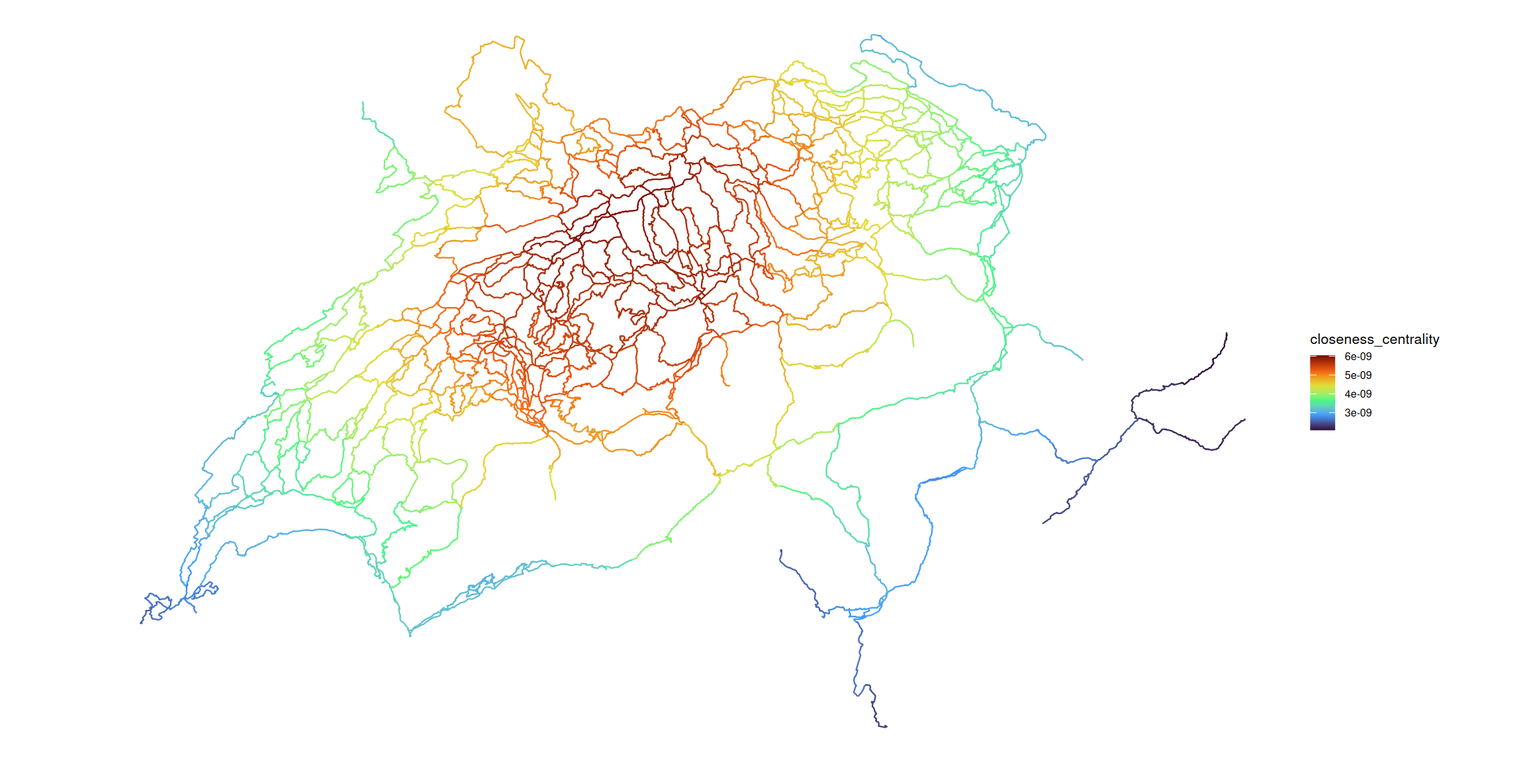
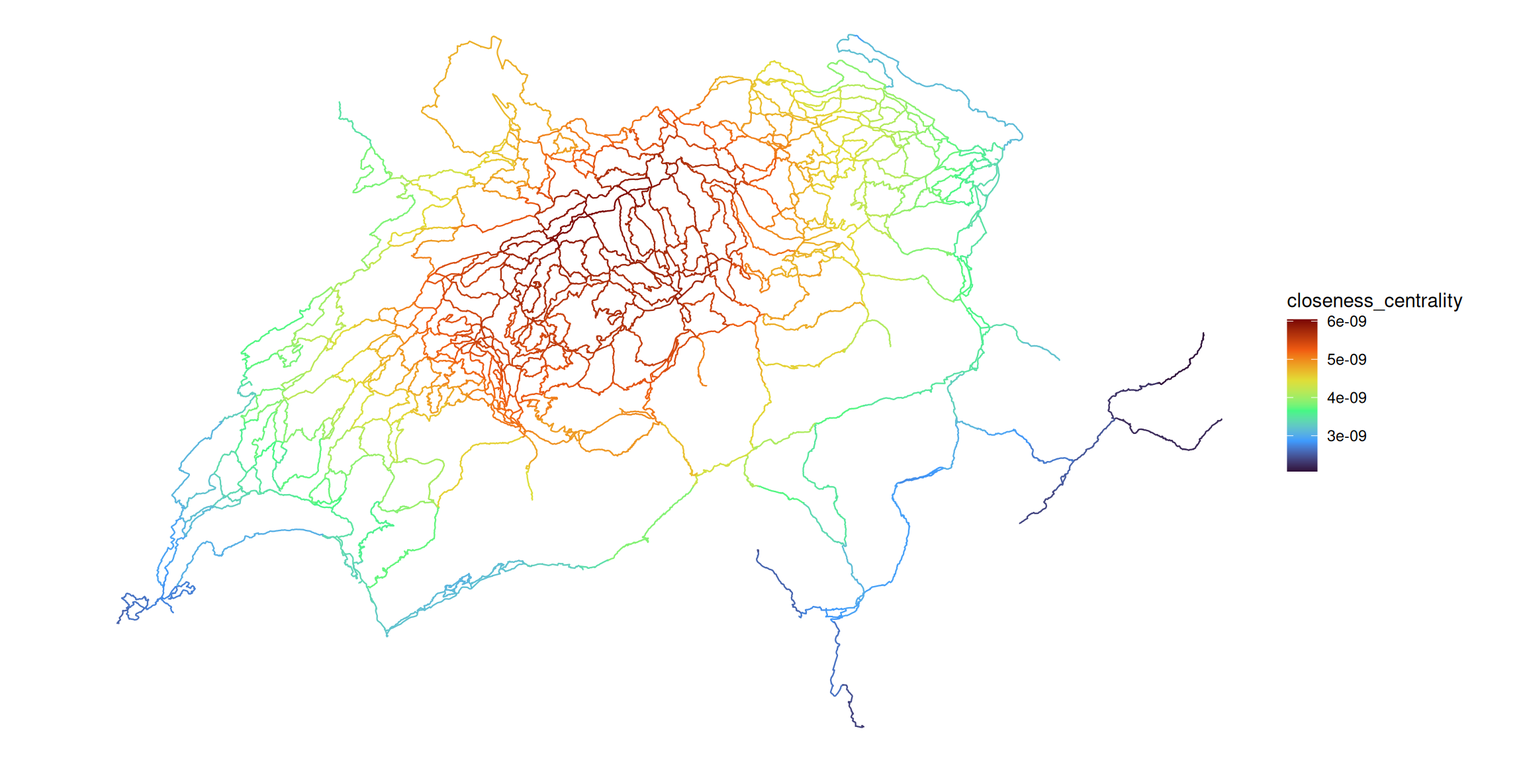
Built site for gh-pages

diff --git a/index.html b/index.html
@@ -245,36 +245,18 @@ Projected CRS: CH1903+ / LV95</code></pre>
 <span id="cb9-2"><a href="#cb9-2" aria-hidden="true" tabindex="-1"></a>  <span class="fu">geom_sf</span>(<span class="fu">aes</span>(<span class="at">color =</span> betweenness_centrality), <span class="at">size =</span> <span class="fl">0.4</span>) <span class="sc">+</span> </span>
 <span id="cb9-3"><a href="#cb9-3" aria-hidden="true" tabindex="-1"></a>  <span class="fu">scale_color_viridis_c</span>(<span class="at">option =</span> <span class="st">"turbo"</span>) <span class="sc">+</span> </span>
 <span id="cb9-4"><a href="#cb9-4" aria-hidden="true" tabindex="-1"></a>  <span class="fu">theme_void</span>() <span class="sc">+</span> </span>
-<span id="cb9-5"><a href="#cb9-5" aria-hidden="true" tabindex="-1"></a>    <span class="fu">theme</span>(</span>
-<span id="cb9-6"><a href="#cb9-6" aria-hidden="true" tabindex="-1"></a>  <span class="at">legend.title =</span> <span class="fu">element_text</span>(<span class="at">size =</span> <span class="dv">8</span>),</span>
-<span id="cb9-7"><a href="#cb9-7" aria-hidden="true" tabindex="-1"></a>  <span class="at">legend.text  =</span> <span class="fu">element_text</span>(<span class="at">size =</span> <span class="dv">6</span>),</span>
-<span id="cb9-8"><a href="#cb9-8" aria-hidden="true" tabindex="-1"></a>  <span class="at">legend.key.height =</span> <span class="fu">unit</span>(<span class="fl">0.3</span>, <span class="st">"cm"</span>),</span>
-<span id="cb9-9"><a href="#cb9-9" aria-hidden="true" tabindex="-1"></a>  <span class="at">legend.key.width  =</span> <span class="fu">unit</span>(<span class="fl">0.5</span>, <span class="st">"cm"</span>)</span>
-<span id="cb9-10"><a href="#cb9-10" aria-hidden="true" tabindex="-1"></a>  ) <span class="sc">+</span> </span>
-<span id="cb9-11"><a href="#cb9-11" aria-hidden="true" tabindex="-1"></a>  <span class="fu">theme</span>(<span class="at">plot.margin =</span> <span class="fu">margin</span>(<span class="dv">0</span>, <span class="dv">0</span>, <span class="dv">0</span>, <span class="dv">0</span>))</span>
-<span id="cb9-12"><a href="#cb9-12" aria-hidden="true" tabindex="-1"></a><span class="fu">ggplot</span>(edges_sf) <span class="sc">+</span> </span>
-<span id="cb9-13"><a href="#cb9-13" aria-hidden="true" tabindex="-1"></a>  <span class="fu">geom_sf</span>(<span class="fu">aes</span>(<span class="at">color =</span> closeness_centrality), <span class="at">size =</span> <span class="fl">0.4</span>) <span class="sc">+</span> </span>
-<span id="cb9-14"><a href="#cb9-14" aria-hidden="true" tabindex="-1"></a>  <span class="fu">scale_color_viridis_c</span>(<span class="at">option =</span> <span class="st">"turbo"</span>) <span class="sc">+</span> </span>
-<span id="cb9-15"><a href="#cb9-15" aria-hidden="true" tabindex="-1"></a>  <span class="fu">theme_void</span>() <span class="sc">+</span> </span>
-<span id="cb9-16"><a href="#cb9-16" aria-hidden="true" tabindex="-1"></a>    <span class="fu">theme</span>(</span>
-<span id="cb9-17"><a href="#cb9-17" aria-hidden="true" tabindex="-1"></a>  <span class="at">legend.title =</span> <span class="fu">element_text</span>(<span class="at">size =</span> <span class="dv">8</span>),</span>
-<span id="cb9-18"><a href="#cb9-18" aria-hidden="true" tabindex="-1"></a>  <span class="at">legend.text  =</span> <span class="fu">element_text</span>(<span class="at">size =</span> <span class="dv">6</span>),</span>
-<span id="cb9-19"><a href="#cb9-19" aria-hidden="true" tabindex="-1"></a>  <span class="at">legend.key.height =</span> <span class="fu">unit</span>(<span class="fl">0.3</span>, <span class="st">"cm"</span>),</span>
-<span id="cb9-20"><a href="#cb9-20" aria-hidden="true" tabindex="-1"></a>  <span class="at">legend.key.width  =</span> <span class="fu">unit</span>(<span class="fl">0.5</span>, <span class="st">"cm"</span>)</span>
-<span id="cb9-21"><a href="#cb9-21" aria-hidden="true" tabindex="-1"></a>  ) <span class="sc">+</span> </span>
-<span id="cb9-22"><a href="#cb9-22" aria-hidden="true" tabindex="-1"></a>  <span class="fu">theme</span>(<span class="at">plot.margin =</span> <span class="fu">margin</span>(<span class="dv">0</span>, <span class="dv">0</span>, <span class="dv">0</span>, <span class="dv">0</span>))</span>
-<span id="cb9-23"><a href="#cb9-23" aria-hidden="true" tabindex="-1"></a><span class="fu">ggplot</span>(edges_sf) <span class="sc">+</span> </span>
-<span id="cb9-24"><a href="#cb9-24" aria-hidden="true" tabindex="-1"></a>  <span class="fu">geom_sf</span>(<span class="fu">aes</span>(<span class="at">color =</span> degree_centrality), <span class="at">size =</span> <span class="fl">0.4</span>) <span class="sc">+</span></span>
-<span id="cb9-25"><a href="#cb9-25" aria-hidden="true" tabindex="-1"></a>  <span class="fu">scale_color_viridis_c</span>(<span class="at">option =</span> <span class="st">"turbo"</span>) <span class="sc">+</span> </span>
-<span id="cb9-26"><a href="#cb9-26" aria-hidden="true" tabindex="-1"></a>  <span class="fu">theme_void</span>() <span class="sc">+</span></span>
-<span id="cb9-27"><a href="#cb9-27" aria-hidden="true" tabindex="-1"></a>  <span class="fu">theme</span>(</span>
-<span id="cb9-28"><a href="#cb9-28" aria-hidden="true" tabindex="-1"></a>  <span class="at">legend.title =</span> <span class="fu">element_text</span>(<span class="at">size =</span> <span class="dv">8</span>),</span>
-<span id="cb9-29"><a href="#cb9-29" aria-hidden="true" tabindex="-1"></a>  <span class="at">legend.text  =</span> <span class="fu">element_text</span>(<span class="at">size =</span> <span class="dv">6</span>),</span>
-<span id="cb9-30"><a href="#cb9-30" aria-hidden="true" tabindex="-1"></a>  <span class="at">legend.key.height =</span> <span class="fu">unit</span>(<span class="fl">0.3</span>, <span class="st">"cm"</span>),</span>
-<span id="cb9-31"><a href="#cb9-31" aria-hidden="true" tabindex="-1"></a>  <span class="at">legend.key.width  =</span> <span class="fu">unit</span>(<span class="fl">0.5</span>, <span class="st">"cm"</span>)</span>
-<span id="cb9-32"><a href="#cb9-32" aria-hidden="true" tabindex="-1"></a>  ) <span class="sc">+</span> </span>
-<span id="cb9-33"><a href="#cb9-33" aria-hidden="true" tabindex="-1"></a>  <span class="fu">theme</span>(<span class="at">plot.margin =</span> <span class="fu">margin</span>(<span class="dv">0</span>, <span class="dv">0</span>, <span class="dv">0</span>, <span class="dv">0</span>))</span></code></pre></div><button title="Copy to Clipboard" class="code-copy-button"><i class="bi"></i></button></div>
-<div class="cell quarto-layout-panel" data-layout-ncol="1" data-fig-nrow="3">
+<span id="cb9-5"><a href="#cb9-5" aria-hidden="true" tabindex="-1"></a>  <span class="fu">theme</span>(<span class="at">plot.margin =</span> <span class="fu">margin</span>(<span class="dv">0</span>, <span class="dv">0</span>, <span class="dv">0</span>, <span class="dv">0</span>))</span>
+<span id="cb9-6"><a href="#cb9-6" aria-hidden="true" tabindex="-1"></a><span class="fu">ggplot</span>(edges_sf) <span class="sc">+</span> </span>
+<span id="cb9-7"><a href="#cb9-7" aria-hidden="true" tabindex="-1"></a>  <span class="fu">geom_sf</span>(<span class="fu">aes</span>(<span class="at">color =</span> closeness_centrality), <span class="at">size =</span> <span class="fl">0.4</span>) <span class="sc">+</span> </span>
+<span id="cb9-8"><a href="#cb9-8" aria-hidden="true" tabindex="-1"></a>  <span class="fu">scale_color_viridis_c</span>(<span class="at">option =</span> <span class="st">"turbo"</span>) <span class="sc">+</span> </span>
+<span id="cb9-9"><a href="#cb9-9" aria-hidden="true" tabindex="-1"></a>  <span class="fu">theme_void</span>() <span class="sc">+</span> </span>
+<span id="cb9-10"><a href="#cb9-10" aria-hidden="true" tabindex="-1"></a>  <span class="fu">theme</span>(<span class="at">plot.margin =</span> <span class="fu">margin</span>(<span class="dv">0</span>, <span class="dv">0</span>, <span class="dv">0</span>, <span class="dv">0</span>))</span>
+<span id="cb9-11"><a href="#cb9-11" aria-hidden="true" tabindex="-1"></a><span class="fu">ggplot</span>(edges_sf) <span class="sc">+</span> </span>
+<span id="cb9-12"><a href="#cb9-12" aria-hidden="true" tabindex="-1"></a>  <span class="fu">geom_sf</span>(<span class="fu">aes</span>(<span class="at">color =</span> degree_centrality), <span class="at">size =</span> <span class="fl">0.4</span>) <span class="sc">+</span></span>
+<span id="cb9-13"><a href="#cb9-13" aria-hidden="true" tabindex="-1"></a>  <span class="fu">scale_color_viridis_c</span>(<span class="at">option =</span> <span class="st">"turbo"</span>) <span class="sc">+</span> </span>
+<span id="cb9-14"><a href="#cb9-14" aria-hidden="true" tabindex="-1"></a>  <span class="fu">theme_void</span>() <span class="sc">+</span></span>
+<span id="cb9-15"><a href="#cb9-15" aria-hidden="true" tabindex="-1"></a>  <span class="fu">theme</span>(<span class="at">plot.margin =</span> <span class="fu">margin</span>(<span class="dv">0</span>, <span class="dv">0</span>, <span class="dv">0</span>, <span class="dv">0</span>))</span></code></pre></div><button title="Copy to Clipboard" class="code-copy-button"><i class="bi"></i></button></div>
+<div class="cell quarto-layout-panel" data-fig-nrow="3" data-layout-ncol="1">
 <div class="quarto-layout-row">
 <div class="quarto-layout-cell" style="flex-basis: 100.0%;justify-content: center;">
 <p><img src="index_files/figure-html/plot%20raw-1.png" class="img-fluid" width="1152"></p>
@@ -317,41 +299,35 @@ Projected CRS: CH1903+ / LV95</code></pre>
 <span id="cb12-2"><a href="#cb12-2" aria-hidden="true" tabindex="-1"></a>edges_sf<span class="sc">$</span>clo_z <span class="ot">&lt;-</span> <span class="fu">scale</span>(edges_sf<span class="sc">$</span>closeness_centrality)</span>
 <span id="cb12-3"><a href="#cb12-3" aria-hidden="true" tabindex="-1"></a>edges_sf<span class="sc">$</span>deg_z <span class="ot">&lt;-</span> <span class="fu">scale</span>(edges_sf<span class="sc">$</span>degree_centrality)</span></code></pre></div><button title="Copy to Clipboard" class="code-copy-button"><i class="bi"></i></button></div>
 </div>
-<div class="cell" data-fig-nrow="3">
 <div class="code-copy-outer-scaffold"><div class="sourceCode cell-code" id="cb13"><pre class="sourceCode r code-with-copy"><code class="sourceCode r"><span id="cb13-1"><a href="#cb13-1" aria-hidden="true" tabindex="-1"></a><span class="fu">ggplot</span>(edges_sf) <span class="sc">+</span> </span>
 <span id="cb13-2"><a href="#cb13-2" aria-hidden="true" tabindex="-1"></a>  <span class="fu">geom_sf</span>(<span class="fu">aes</span>(<span class="at">color =</span> btw_z), <span class="at">size =</span> <span class="fl">0.4</span>) <span class="sc">+</span> </span>
 <span id="cb13-3"><a href="#cb13-3" aria-hidden="true" tabindex="-1"></a>  <span class="fu">scale_color_viridis_c</span>(<span class="at">option =</span> <span class="st">"turbo"</span>) <span class="sc">+</span> </span>
 <span id="cb13-4"><a href="#cb13-4" aria-hidden="true" tabindex="-1"></a>  <span class="fu">theme_void</span>()  <span class="sc">+</span> </span>
-<span id="cb13-5"><a href="#cb13-5" aria-hidden="true" tabindex="-1"></a>  <span class="fu">theme</span>(<span class="at">plot.margin =</span> <span class="fu">margin</span>(<span class="dv">0</span>, <span class="dv">0</span>, <span class="dv">0</span>, <span class="dv">0</span>))</span></code></pre></div><button title="Copy to Clipboard" class="code-copy-button"><i class="bi"></i></button></div>
-<div class="cell-output-display">
-<div>
-<figure class="figure">
-<p><img src="index_files/figure-html/plot%20z-scores-1.png" class="img-fluid figure-img" width="1152"></p>
-</figure>
+<span id="cb13-5"><a href="#cb13-5" aria-hidden="true" tabindex="-1"></a>  <span class="fu">theme</span>(<span class="at">plot.margin =</span> <span class="fu">margin</span>(<span class="dv">0</span>, <span class="dv">0</span>, <span class="dv">0</span>, <span class="dv">0</span>))</span>
+<span id="cb13-6"><a href="#cb13-6" aria-hidden="true" tabindex="-1"></a><span class="fu">ggplot</span>(edges_sf) <span class="sc">+</span> </span>
+<span id="cb13-7"><a href="#cb13-7" aria-hidden="true" tabindex="-1"></a>  <span class="fu">geom_sf</span>(<span class="fu">aes</span>(<span class="at">color =</span> clo_z), <span class="at">size =</span> <span class="fl">0.4</span>) <span class="sc">+</span> </span>
+<span id="cb13-8"><a href="#cb13-8" aria-hidden="true" tabindex="-1"></a>  <span class="fu">scale_color_viridis_c</span>(<span class="at">option =</span> <span class="st">"turbo"</span>) <span class="sc">+</span> </span>
+<span id="cb13-9"><a href="#cb13-9" aria-hidden="true" tabindex="-1"></a>  <span class="fu">theme_void</span>() <span class="sc">+</span> </span>
+<span id="cb13-10"><a href="#cb13-10" aria-hidden="true" tabindex="-1"></a>  <span class="fu">theme</span>(<span class="at">plot.margin =</span> <span class="fu">margin</span>(<span class="dv">0</span>, <span class="dv">0</span>, <span class="dv">0</span>, <span class="dv">0</span>))</span>
+<span id="cb13-11"><a href="#cb13-11" aria-hidden="true" tabindex="-1"></a><span class="fu">ggplot</span>(edges_sf) <span class="sc">+</span> </span>
+<span id="cb13-12"><a href="#cb13-12" aria-hidden="true" tabindex="-1"></a>  <span class="fu">geom_sf</span>(<span class="fu">aes</span>(<span class="at">color =</span> deg_z), <span class="at">size =</span> <span class="fl">0.4</span>) <span class="sc">+</span></span>
+<span id="cb13-13"><a href="#cb13-13" aria-hidden="true" tabindex="-1"></a>  <span class="fu">scale_color_viridis_c</span>(<span class="at">option =</span> <span class="st">"turbo"</span>) <span class="sc">+</span> </span>
+<span id="cb13-14"><a href="#cb13-14" aria-hidden="true" tabindex="-1"></a>  <span class="fu">theme_void</span>() <span class="sc">+</span> </span>
+<span id="cb13-15"><a href="#cb13-15" aria-hidden="true" tabindex="-1"></a>  <span class="fu">theme</span>(<span class="at">plot.margin =</span> <span class="fu">margin</span>(<span class="dv">0</span>, <span class="dv">0</span>, <span class="dv">0</span>, <span class="dv">0</span>))</span></code></pre></div><button title="Copy to Clipboard" class="code-copy-button"><i class="bi"></i></button></div>
+<div class="cell quarto-layout-panel" data-fig-nrow="3" data-layout-ncol="1">
+<div class="quarto-layout-row">
+<div class="quarto-layout-cell" style="flex-basis: 100.0%;justify-content: center;">
+<p><img src="index_files/figure-html/plot%20z-scores-1.png" class="img-fluid" width="1152"></p>
 </div>
 </div>
-<div class="code-copy-outer-scaffold"><div class="sourceCode cell-code" id="cb14"><pre class="sourceCode r code-with-copy"><code class="sourceCode r"><span id="cb14-1"><a href="#cb14-1" aria-hidden="true" tabindex="-1"></a><span class="fu">ggplot</span>(edges_sf) <span class="sc">+</span> </span>
-<span id="cb14-2"><a href="#cb14-2" aria-hidden="true" tabindex="-1"></a>  <span class="fu">geom_sf</span>(<span class="fu">aes</span>(<span class="at">color =</span> clo_z), <span class="at">size =</span> <span class="fl">0.4</span>) <span class="sc">+</span> </span>
-<span id="cb14-3"><a href="#cb14-3" aria-hidden="true" tabindex="-1"></a>  <span class="fu">scale_color_viridis_c</span>(<span class="at">option =</span> <span class="st">"turbo"</span>) <span class="sc">+</span> </span>
-<span id="cb14-4"><a href="#cb14-4" aria-hidden="true" tabindex="-1"></a>  <span class="fu">theme_void</span>() <span class="sc">+</span> </span>
-<span id="cb14-5"><a href="#cb14-5" aria-hidden="true" tabindex="-1"></a>  <span class="fu">theme</span>(<span class="at">plot.margin =</span> <span class="fu">margin</span>(<span class="dv">0</span>, <span class="dv">0</span>, <span class="dv">0</span>, <span class="dv">0</span>))</span></code></pre></div><button title="Copy to Clipboard" class="code-copy-button"><i class="bi"></i></button></div>
-<div class="cell-output-display">
-<div>
-<figure class="figure">
-<p><img src="index_files/figure-html/plot%20z-scores-2.png" class="img-fluid figure-img" width="1152"></p>
-</figure>
+<div class="quarto-layout-row">
+<div class="quarto-layout-cell" style="flex-basis: 100.0%;justify-content: center;">
+<p><img src="index_files/figure-html/plot%20z-scores-2.png" class="img-fluid" width="1152"></p>
 </div>
 </div>
-<div class="code-copy-outer-scaffold"><div class="sourceCode cell-code" id="cb15"><pre class="sourceCode r code-with-copy"><code class="sourceCode r"><span id="cb15-1"><a href="#cb15-1" aria-hidden="true" tabindex="-1"></a><span class="fu">ggplot</span>(edges_sf) <span class="sc">+</span> </span>
-<span id="cb15-2"><a href="#cb15-2" aria-hidden="true" tabindex="-1"></a>  <span class="fu">geom_sf</span>(<span class="fu">aes</span>(<span class="at">color =</span> deg_z), <span class="at">size =</span> <span class="fl">0.4</span>) <span class="sc">+</span></span>
-<span id="cb15-3"><a href="#cb15-3" aria-hidden="true" tabindex="-1"></a>  <span class="fu">scale_color_viridis_c</span>(<span class="at">option =</span> <span class="st">"turbo"</span>) <span class="sc">+</span> </span>
-<span id="cb15-4"><a href="#cb15-4" aria-hidden="true" tabindex="-1"></a>  <span class="fu">theme_void</span>() <span class="sc">+</span> </span>
-<span id="cb15-5"><a href="#cb15-5" aria-hidden="true" tabindex="-1"></a>  <span class="fu">theme</span>(<span class="at">plot.margin =</span> <span class="fu">margin</span>(<span class="dv">0</span>, <span class="dv">0</span>, <span class="dv">0</span>, <span class="dv">0</span>))</span></code></pre></div><button title="Copy to Clipboard" class="code-copy-button"><i class="bi"></i></button></div>
-<div class="cell-output-display">
-<div>
-<figure class="figure">
-<p><img src="index_files/figure-html/plot%20z-scores-3.png" class="img-fluid figure-img" width="1152"></p>
-</figure>
+<div class="quarto-layout-row">
+<div class="quarto-layout-cell" style="flex-basis: 100.0%;justify-content: center;">
+<p><img src="index_files/figure-html/plot%20z-scores-3.png" class="img-fluid" width="1152"></p>
 </div>
 </div>
 </div>
@@ -383,10 +359,10 @@ Projected CRS: CH1903+ / LV95</code></pre>
 <h3 class="anchored" data-anchor-id="prepare-the-data">Prepare the data</h3>
 <p>In this first step, I load the location data from a GeoPackage file into R using st_read(). This gives me a spatial dataset of all relevant places that I will use as start and end points for the routing analysis.</p>
 <div class="cell">
-<div class="code-copy-outer-scaffold"><div class="sourceCode cell-code" id="cb16"><pre class="sourceCode r code-with-copy"><code class="sourceCode r"><span id="cb16-1"><a href="#cb16-1" aria-hidden="true" tabindex="-1"></a><span class="co"># Construct the file path</span></span>
-<span id="cb16-2"><a href="#cb16-2" aria-hidden="true" tabindex="-1"></a>gpkg_path_locs <span class="ot">&lt;-</span> <span class="fu">file.path</span>(<span class="fu">Sys.getenv</span>(<span class="st">"GEODATA"</span>), <span class="st">"locations.gpkg"</span>)</span>
-<span id="cb16-3"><a href="#cb16-3" aria-hidden="true" tabindex="-1"></a></span>
-<span id="cb16-4"><a href="#cb16-4" aria-hidden="true" tabindex="-1"></a>locations <span class="ot">&lt;-</span> <span class="fu">st_read</span>(gpkg_path_locs)</span></code></pre></div><button title="Copy to Clipboard" class="code-copy-button"><i class="bi"></i></button></div>
+<div class="code-copy-outer-scaffold"><div class="sourceCode cell-code" id="cb14"><pre class="sourceCode r code-with-copy"><code class="sourceCode r"><span id="cb14-1"><a href="#cb14-1" aria-hidden="true" tabindex="-1"></a><span class="co"># Construct the file path</span></span>
+<span id="cb14-2"><a href="#cb14-2" aria-hidden="true" tabindex="-1"></a>gpkg_path_locs <span class="ot">&lt;-</span> <span class="fu">file.path</span>(<span class="fu">Sys.getenv</span>(<span class="st">"GEODATA"</span>), <span class="st">"locations.gpkg"</span>)</span>
+<span id="cb14-3"><a href="#cb14-3" aria-hidden="true" tabindex="-1"></a></span>
+<span id="cb14-4"><a href="#cb14-4" aria-hidden="true" tabindex="-1"></a>locations <span class="ot">&lt;-</span> <span class="fu">st_read</span>(gpkg_path_locs)</span></code></pre></div><button title="Copy to Clipboard" class="code-copy-button"><i class="bi"></i></button></div>
 <div class="cell-output cell-output-stdout">
 <pre><code>Reading layer `locations' from data source 
   `/home/rhoumyas/data/geodata/locations.gpkg' using driver `GPKG'
@@ -402,87 +378,87 @@ Projected CRS: CH1903+ / LV95</code></pre>
 <h3 class="anchored" data-anchor-id="defining-origin-and-destinations">Defining origin and destinations</h3>
 <p>From this set, I define one specific location (Chiasso) as the origin, and all other locations as destinations.</p>
 <div class="cell">
-<div class="code-copy-outer-scaffold"><div class="sourceCode cell-code" id="cb18"><pre class="sourceCode r code-with-copy"><code class="sourceCode r"><span id="cb18-1"><a href="#cb18-1" aria-hidden="true" tabindex="-1"></a>origin <span class="ot">&lt;-</span> locations <span class="sc">%&gt;%</span></span>
-<span id="cb18-2"><a href="#cb18-2" aria-hidden="true" tabindex="-1"></a>  <span class="fu">filter</span>(Ortschaft <span class="sc">==</span> <span class="st">"Chiasso"</span>)</span>
-<span id="cb18-3"><a href="#cb18-3" aria-hidden="true" tabindex="-1"></a></span>
-<span id="cb18-4"><a href="#cb18-4" aria-hidden="true" tabindex="-1"></a>destination <span class="ot">&lt;-</span> locations <span class="sc">%&gt;%</span></span>
-<span id="cb18-5"><a href="#cb18-5" aria-hidden="true" tabindex="-1"></a>  <span class="fu">filter</span>(Ortschaft <span class="sc">!=</span> <span class="st">"Chiasso"</span>)</span></code></pre></div><button title="Copy to Clipboard" class="code-copy-button"><i class="bi"></i></button></div>
+<div class="code-copy-outer-scaffold"><div class="sourceCode cell-code" id="cb16"><pre class="sourceCode r code-with-copy"><code class="sourceCode r"><span id="cb16-1"><a href="#cb16-1" aria-hidden="true" tabindex="-1"></a>origin <span class="ot">&lt;-</span> locations <span class="sc">%&gt;%</span></span>
+<span id="cb16-2"><a href="#cb16-2" aria-hidden="true" tabindex="-1"></a>  <span class="fu">filter</span>(Ortschaft <span class="sc">==</span> <span class="st">"Chiasso"</span>)</span>
+<span id="cb16-3"><a href="#cb16-3" aria-hidden="true" tabindex="-1"></a></span>
+<span id="cb16-4"><a href="#cb16-4" aria-hidden="true" tabindex="-1"></a>destination <span class="ot">&lt;-</span> locations <span class="sc">%&gt;%</span></span>
+<span id="cb16-5"><a href="#cb16-5" aria-hidden="true" tabindex="-1"></a>  <span class="fu">filter</span>(Ortschaft <span class="sc">!=</span> <span class="st">"Chiasso"</span>)</span></code></pre></div><button title="Copy to Clipboard" class="code-copy-button"><i class="bi"></i></button></div>
 </div>
 </section>
 <section id="computing-the-shortest-paths" class="level3">
 <h3 class="anchored" data-anchor-id="computing-the-shortest-paths">Computing the shortest paths</h3>
 <p>Here, I calculate the shortest paths from the origin (Chiasso) to all destination points using <code>st_network_paths()</code>. I use the network structure created earlier (Task 1) and define the edge length as the weight, so the algorithm finds the shortest distance-based routes through the cycling network. The output gives me a list of edges for each origin–destination pair.</p>
 <div class="cell">
-<div class="code-copy-outer-scaffold"><div class="sourceCode cell-code" id="cb19"><pre class="sourceCode r code-with-copy"><code class="sourceCode r"><span id="cb19-1"><a href="#cb19-1" aria-hidden="true" tabindex="-1"></a>paths <span class="ot">&lt;-</span> <span class="fu">st_network_paths</span>(</span>
-<span id="cb19-2"><a href="#cb19-2" aria-hidden="true" tabindex="-1"></a>  veloland_net,</span>
-<span id="cb19-3"><a href="#cb19-3" aria-hidden="true" tabindex="-1"></a>  <span class="at">from =</span> origin,</span>
-<span id="cb19-4"><a href="#cb19-4" aria-hidden="true" tabindex="-1"></a>  <span class="at">to =</span> destination,</span>
-<span id="cb19-5"><a href="#cb19-5" aria-hidden="true" tabindex="-1"></a>  <span class="at">weights =</span> veloland_net<span class="sc">$</span>length</span>
-<span id="cb19-6"><a href="#cb19-6" aria-hidden="true" tabindex="-1"></a>)</span></code></pre></div><button title="Copy to Clipboard" class="code-copy-button"><i class="bi"></i></button></div>
+<div class="code-copy-outer-scaffold"><div class="sourceCode cell-code" id="cb17"><pre class="sourceCode r code-with-copy"><code class="sourceCode r"><span id="cb17-1"><a href="#cb17-1" aria-hidden="true" tabindex="-1"></a>paths <span class="ot">&lt;-</span> <span class="fu">st_network_paths</span>(</span>
+<span id="cb17-2"><a href="#cb17-2" aria-hidden="true" tabindex="-1"></a>  veloland_net,</span>
+<span id="cb17-3"><a href="#cb17-3" aria-hidden="true" tabindex="-1"></a>  <span class="at">from =</span> origin,</span>
+<span id="cb17-4"><a href="#cb17-4" aria-hidden="true" tabindex="-1"></a>  <span class="at">to =</span> destination,</span>
+<span id="cb17-5"><a href="#cb17-5" aria-hidden="true" tabindex="-1"></a>  <span class="at">weights =</span> veloland_net<span class="sc">$</span>length</span>
+<span id="cb17-6"><a href="#cb17-6" aria-hidden="true" tabindex="-1"></a>)</span></code></pre></div><button title="Copy to Clipboard" class="code-copy-button"><i class="bi"></i></button></div>
 </div>
 </section>
 <section id="build-edge-path-structure" class="level3">
 <h3 class="anchored" data-anchor-id="build-edge-path-structure">Build edge-path structure</h3>
 <p>In this step, I reorganise the raw output of the shortest path function into a structured format. I create a table that links each destination to the specific network edges used in its shortest path. Then I join this information back to the spatial edge data so that each edge knows which destination it belongs to. This allows me to visualise each route separately instead of merging everything into one combined result.</p>
 <div class="cell">
-<div class="code-copy-outer-scaffold"><div class="sourceCode cell-code" id="cb20"><pre class="sourceCode r code-with-copy"><code class="sourceCode r"><span id="cb20-1"><a href="#cb20-1" aria-hidden="true" tabindex="-1"></a>path_df <span class="ot">&lt;-</span> <span class="fu">tibble</span>(</span>
-<span id="cb20-2"><a href="#cb20-2" aria-hidden="true" tabindex="-1"></a>  <span class="at">dest_id =</span> <span class="fu">rep</span>(<span class="fu">seq_along</span>(paths<span class="sc">$</span>edge_paths), <span class="fu">lengths</span>(paths<span class="sc">$</span>edge_paths)),</span>
-<span id="cb20-3"><a href="#cb20-3" aria-hidden="true" tabindex="-1"></a>  <span class="at">edge_id =</span> <span class="fu">unlist</span>(paths<span class="sc">$</span>edge_paths)</span>
-<span id="cb20-4"><a href="#cb20-4" aria-hidden="true" tabindex="-1"></a>)</span>
-<span id="cb20-5"><a href="#cb20-5" aria-hidden="true" tabindex="-1"></a></span>
-<span id="cb20-6"><a href="#cb20-6" aria-hidden="true" tabindex="-1"></a>edges <span class="ot">&lt;-</span> veloland_net <span class="sc">%&gt;%</span></span>
-<span id="cb20-7"><a href="#cb20-7" aria-hidden="true" tabindex="-1"></a>  <span class="fu">activate</span>(edges) <span class="sc">%&gt;%</span></span>
-<span id="cb20-8"><a href="#cb20-8" aria-hidden="true" tabindex="-1"></a>  <span class="fu">st_as_sf</span>() <span class="sc">%&gt;%</span></span>
-<span id="cb20-9"><a href="#cb20-9" aria-hidden="true" tabindex="-1"></a>  <span class="fu">mutate</span>(<span class="at">edge_id =</span> <span class="fu">row_number</span>())</span>
-<span id="cb20-10"><a href="#cb20-10" aria-hidden="true" tabindex="-1"></a></span>
-<span id="cb20-11"><a href="#cb20-11" aria-hidden="true" tabindex="-1"></a>edges_paths <span class="ot">&lt;-</span> path_df <span class="sc">%&gt;%</span></span>
-<span id="cb20-12"><a href="#cb20-12" aria-hidden="true" tabindex="-1"></a>  <span class="fu">left_join</span>(edges, <span class="at">by =</span> <span class="st">"edge_id"</span>) <span class="sc">%&gt;%</span></span>
-<span id="cb20-13"><a href="#cb20-13" aria-hidden="true" tabindex="-1"></a>  <span class="fu">st_as_sf</span>()</span></code></pre></div><button title="Copy to Clipboard" class="code-copy-button"><i class="bi"></i></button></div>
+<div class="code-copy-outer-scaffold"><div class="sourceCode cell-code" id="cb18"><pre class="sourceCode r code-with-copy"><code class="sourceCode r"><span id="cb18-1"><a href="#cb18-1" aria-hidden="true" tabindex="-1"></a>path_df <span class="ot">&lt;-</span> <span class="fu">tibble</span>(</span>
+<span id="cb18-2"><a href="#cb18-2" aria-hidden="true" tabindex="-1"></a>  <span class="at">dest_id =</span> <span class="fu">rep</span>(<span class="fu">seq_along</span>(paths<span class="sc">$</span>edge_paths), <span class="fu">lengths</span>(paths<span class="sc">$</span>edge_paths)),</span>
+<span id="cb18-3"><a href="#cb18-3" aria-hidden="true" tabindex="-1"></a>  <span class="at">edge_id =</span> <span class="fu">unlist</span>(paths<span class="sc">$</span>edge_paths)</span>
+<span id="cb18-4"><a href="#cb18-4" aria-hidden="true" tabindex="-1"></a>)</span>
+<span id="cb18-5"><a href="#cb18-5" aria-hidden="true" tabindex="-1"></a></span>
+<span id="cb18-6"><a href="#cb18-6" aria-hidden="true" tabindex="-1"></a>edges <span class="ot">&lt;-</span> veloland_net <span class="sc">%&gt;%</span></span>
+<span id="cb18-7"><a href="#cb18-7" aria-hidden="true" tabindex="-1"></a>  <span class="fu">activate</span>(edges) <span class="sc">%&gt;%</span></span>
+<span id="cb18-8"><a href="#cb18-8" aria-hidden="true" tabindex="-1"></a>  <span class="fu">st_as_sf</span>() <span class="sc">%&gt;%</span></span>
+<span id="cb18-9"><a href="#cb18-9" aria-hidden="true" tabindex="-1"></a>  <span class="fu">mutate</span>(<span class="at">edge_id =</span> <span class="fu">row_number</span>())</span>
+<span id="cb18-10"><a href="#cb18-10" aria-hidden="true" tabindex="-1"></a></span>
+<span id="cb18-11"><a href="#cb18-11" aria-hidden="true" tabindex="-1"></a>edges_paths <span class="ot">&lt;-</span> path_df <span class="sc">%&gt;%</span></span>
+<span id="cb18-12"><a href="#cb18-12" aria-hidden="true" tabindex="-1"></a>  <span class="fu">left_join</span>(edges, <span class="at">by =</span> <span class="st">"edge_id"</span>) <span class="sc">%&gt;%</span></span>
+<span id="cb18-13"><a href="#cb18-13" aria-hidden="true" tabindex="-1"></a>  <span class="fu">st_as_sf</span>()</span></code></pre></div><button title="Copy to Clipboard" class="code-copy-button"><i class="bi"></i></button></div>
 </div>
 </section>
 <section id="visualise-routing-results" class="level3">
 <h3 class="anchored" data-anchor-id="visualise-routing-results">Visualise routing results</h3>
 <p>Finally, I visualise the full network together with the computed shortest paths. The grey lines represent the full cycling network, while the coloured lines show the shortest paths from Chiasso to each destination, with different colours for each target location. I also plot the origin in red and the destination points in black, and I add labels for all locations to make the map easier to interpret. The origin is additionally highlighted as “Start” to clearly indicate the reference point.</p>
 <div class="cell">
-<div class="code-copy-outer-scaffold"><div class="sourceCode cell-code" id="cb21"><pre class="sourceCode r code-with-copy"><code class="sourceCode r"><span id="cb21-1"><a href="#cb21-1" aria-hidden="true" tabindex="-1"></a><span class="fu">ggplot</span>() <span class="sc">+</span></span>
-<span id="cb21-2"><a href="#cb21-2" aria-hidden="true" tabindex="-1"></a>  <span class="fu">geom_sf</span>(<span class="at">data =</span> edges, <span class="at">color =</span> <span class="st">"grey85"</span>, <span class="at">size =</span> <span class="fl">0.2</span>) <span class="sc">+</span></span>
-<span id="cb21-3"><a href="#cb21-3" aria-hidden="true" tabindex="-1"></a>  </span>
-<span id="cb21-4"><a href="#cb21-4" aria-hidden="true" tabindex="-1"></a>  <span class="fu">geom_sf</span>(</span>
-<span id="cb21-5"><a href="#cb21-5" aria-hidden="true" tabindex="-1"></a>    <span class="at">data =</span> edges_paths,</span>
-<span id="cb21-6"><a href="#cb21-6" aria-hidden="true" tabindex="-1"></a>    <span class="fu">aes</span>(<span class="at">color =</span> <span class="fu">factor</span>(dest_id)),</span>
-<span id="cb21-7"><a href="#cb21-7" aria-hidden="true" tabindex="-1"></a>    <span class="at">size =</span> <span class="fl">0.6</span>,</span>
-<span id="cb21-8"><a href="#cb21-8" aria-hidden="true" tabindex="-1"></a>    <span class="at">alpha =</span> <span class="fl">0.5</span></span>
-<span id="cb21-9"><a href="#cb21-9" aria-hidden="true" tabindex="-1"></a>  ) <span class="sc">+</span></span>
-<span id="cb21-10"><a href="#cb21-10" aria-hidden="true" tabindex="-1"></a>  </span>
-<span id="cb21-11"><a href="#cb21-11" aria-hidden="true" tabindex="-1"></a>  <span class="fu">geom_sf</span>(<span class="at">data =</span> origin, <span class="at">color =</span> <span class="st">"red"</span>, <span class="at">size =</span> <span class="dv">2</span>) <span class="sc">+</span></span>
-<span id="cb21-12"><a href="#cb21-12" aria-hidden="true" tabindex="-1"></a>  <span class="fu">geom_sf</span>(<span class="at">data =</span> destination, <span class="at">color =</span> <span class="st">"black"</span>, <span class="at">size =</span> <span class="dv">2</span>) <span class="sc">+</span></span>
-<span id="cb21-13"><a href="#cb21-13" aria-hidden="true" tabindex="-1"></a>  </span>
-<span id="cb21-14"><a href="#cb21-14" aria-hidden="true" tabindex="-1"></a>   <span class="co"># labels</span></span>
-<span id="cb21-15"><a href="#cb21-15" aria-hidden="true" tabindex="-1"></a>  <span class="fu">geom_sf_text</span>(</span>
-<span id="cb21-16"><a href="#cb21-16" aria-hidden="true" tabindex="-1"></a>    <span class="at">data =</span> locations,</span>
-<span id="cb21-17"><a href="#cb21-17" aria-hidden="true" tabindex="-1"></a>    <span class="fu">aes</span>(<span class="at">label =</span> Ortschaft),</span>
-<span id="cb21-18"><a href="#cb21-18" aria-hidden="true" tabindex="-1"></a>    <span class="at">size =</span> <span class="dv">3</span>,</span>
-<span id="cb21-19"><a href="#cb21-19" aria-hidden="true" tabindex="-1"></a>    <span class="at">check_overlap =</span> <span class="cn">TRUE</span>,</span>
-<span id="cb21-20"><a href="#cb21-20" aria-hidden="true" tabindex="-1"></a>    <span class="at">nudge_x =</span> <span class="sc">-</span><span class="dv">4500</span>,</span>
-<span id="cb21-21"><a href="#cb21-21" aria-hidden="true" tabindex="-1"></a>    <span class="at">nudge_y =</span> <span class="dv">3000</span>,</span>
-<span id="cb21-22"><a href="#cb21-22" aria-hidden="true" tabindex="-1"></a>    <span class="at">hjust =</span> <span class="dv">1</span></span>
-<span id="cb21-23"><a href="#cb21-23" aria-hidden="true" tabindex="-1"></a>  ) <span class="sc">+</span></span>
-<span id="cb21-24"><a href="#cb21-24" aria-hidden="true" tabindex="-1"></a>  </span>
-<span id="cb21-25"><a href="#cb21-25" aria-hidden="true" tabindex="-1"></a>  <span class="fu">geom_sf_text</span>(</span>
-<span id="cb21-26"><a href="#cb21-26" aria-hidden="true" tabindex="-1"></a>    <span class="at">data =</span> origin,</span>
-<span id="cb21-27"><a href="#cb21-27" aria-hidden="true" tabindex="-1"></a>    <span class="fu">aes</span>(<span class="at">label =</span> <span class="st">"Start"</span>),</span>
-<span id="cb21-28"><a href="#cb21-28" aria-hidden="true" tabindex="-1"></a>    <span class="at">color=</span><span class="st">'red'</span>,</span>
-<span id="cb21-29"><a href="#cb21-29" aria-hidden="true" tabindex="-1"></a>    <span class="at">size =</span> <span class="dv">3</span>,</span>
-<span id="cb21-30"><a href="#cb21-30" aria-hidden="true" tabindex="-1"></a>    <span class="at">check_overlap =</span> <span class="cn">TRUE</span>,</span>
-<span id="cb21-31"><a href="#cb21-31" aria-hidden="true" tabindex="-1"></a>    <span class="at">nudge_x =</span> <span class="sc">+</span><span class="dv">4500</span>,</span>
-<span id="cb21-32"><a href="#cb21-32" aria-hidden="true" tabindex="-1"></a>    <span class="at">nudge_y =</span> <span class="dv">3000</span>,</span>
-<span id="cb21-33"><a href="#cb21-33" aria-hidden="true" tabindex="-1"></a>    <span class="at">hjust =</span> <span class="dv">0</span>,</span>
-<span id="cb21-34"><a href="#cb21-34" aria-hidden="true" tabindex="-1"></a></span>
-<span id="cb21-35"><a href="#cb21-35" aria-hidden="true" tabindex="-1"></a>  ) <span class="sc">+</span></span>
-<span id="cb21-36"><a href="#cb21-36" aria-hidden="true" tabindex="-1"></a>  </span>
-<span id="cb21-37"><a href="#cb21-37" aria-hidden="true" tabindex="-1"></a>  </span>
-<span id="cb21-38"><a href="#cb21-38" aria-hidden="true" tabindex="-1"></a>  <span class="fu">theme_void</span>() <span class="sc">+</span></span>
-<span id="cb21-39"><a href="#cb21-39" aria-hidden="true" tabindex="-1"></a>  <span class="fu">theme</span>(<span class="at">legend.position =</span> <span class="st">"none"</span>)</span></code></pre></div><button title="Copy to Clipboard" class="code-copy-button"><i class="bi"></i></button></div>
+<div class="code-copy-outer-scaffold"><div class="sourceCode cell-code" id="cb19"><pre class="sourceCode r code-with-copy"><code class="sourceCode r"><span id="cb19-1"><a href="#cb19-1" aria-hidden="true" tabindex="-1"></a><span class="fu">ggplot</span>() <span class="sc">+</span></span>
+<span id="cb19-2"><a href="#cb19-2" aria-hidden="true" tabindex="-1"></a>  <span class="fu">geom_sf</span>(<span class="at">data =</span> edges, <span class="at">color =</span> <span class="st">"grey85"</span>, <span class="at">size =</span> <span class="fl">0.2</span>) <span class="sc">+</span></span>
+<span id="cb19-3"><a href="#cb19-3" aria-hidden="true" tabindex="-1"></a>  </span>
+<span id="cb19-4"><a href="#cb19-4" aria-hidden="true" tabindex="-1"></a>  <span class="fu">geom_sf</span>(</span>
+<span id="cb19-5"><a href="#cb19-5" aria-hidden="true" tabindex="-1"></a>    <span class="at">data =</span> edges_paths,</span>
+<span id="cb19-6"><a href="#cb19-6" aria-hidden="true" tabindex="-1"></a>    <span class="fu">aes</span>(<span class="at">color =</span> <span class="fu">factor</span>(dest_id)),</span>
+<span id="cb19-7"><a href="#cb19-7" aria-hidden="true" tabindex="-1"></a>    <span class="at">size =</span> <span class="fl">0.6</span>,</span>
+<span id="cb19-8"><a href="#cb19-8" aria-hidden="true" tabindex="-1"></a>    <span class="at">alpha =</span> <span class="fl">0.5</span></span>
+<span id="cb19-9"><a href="#cb19-9" aria-hidden="true" tabindex="-1"></a>  ) <span class="sc">+</span></span>
+<span id="cb19-10"><a href="#cb19-10" aria-hidden="true" tabindex="-1"></a>  </span>
+<span id="cb19-11"><a href="#cb19-11" aria-hidden="true" tabindex="-1"></a>  <span class="fu">geom_sf</span>(<span class="at">data =</span> origin, <span class="at">color =</span> <span class="st">"red"</span>, <span class="at">size =</span> <span class="dv">2</span>) <span class="sc">+</span></span>
+<span id="cb19-12"><a href="#cb19-12" aria-hidden="true" tabindex="-1"></a>  <span class="fu">geom_sf</span>(<span class="at">data =</span> destination, <span class="at">color =</span> <span class="st">"black"</span>, <span class="at">size =</span> <span class="dv">2</span>) <span class="sc">+</span></span>
+<span id="cb19-13"><a href="#cb19-13" aria-hidden="true" tabindex="-1"></a>  </span>
+<span id="cb19-14"><a href="#cb19-14" aria-hidden="true" tabindex="-1"></a>   <span class="co"># labels</span></span>
+<span id="cb19-15"><a href="#cb19-15" aria-hidden="true" tabindex="-1"></a>  <span class="fu">geom_sf_text</span>(</span>
+<span id="cb19-16"><a href="#cb19-16" aria-hidden="true" tabindex="-1"></a>    <span class="at">data =</span> locations,</span>
+<span id="cb19-17"><a href="#cb19-17" aria-hidden="true" tabindex="-1"></a>    <span class="fu">aes</span>(<span class="at">label =</span> Ortschaft),</span>
+<span id="cb19-18"><a href="#cb19-18" aria-hidden="true" tabindex="-1"></a>    <span class="at">size =</span> <span class="dv">3</span>,</span>
+<span id="cb19-19"><a href="#cb19-19" aria-hidden="true" tabindex="-1"></a>    <span class="at">check_overlap =</span> <span class="cn">TRUE</span>,</span>
+<span id="cb19-20"><a href="#cb19-20" aria-hidden="true" tabindex="-1"></a>    <span class="at">nudge_x =</span> <span class="sc">-</span><span class="dv">4500</span>,</span>
+<span id="cb19-21"><a href="#cb19-21" aria-hidden="true" tabindex="-1"></a>    <span class="at">nudge_y =</span> <span class="dv">3000</span>,</span>
+<span id="cb19-22"><a href="#cb19-22" aria-hidden="true" tabindex="-1"></a>    <span class="at">hjust =</span> <span class="dv">1</span></span>
+<span id="cb19-23"><a href="#cb19-23" aria-hidden="true" tabindex="-1"></a>  ) <span class="sc">+</span></span>
+<span id="cb19-24"><a href="#cb19-24" aria-hidden="true" tabindex="-1"></a>  </span>
+<span id="cb19-25"><a href="#cb19-25" aria-hidden="true" tabindex="-1"></a>  <span class="fu">geom_sf_text</span>(</span>
+<span id="cb19-26"><a href="#cb19-26" aria-hidden="true" tabindex="-1"></a>    <span class="at">data =</span> origin,</span>
+<span id="cb19-27"><a href="#cb19-27" aria-hidden="true" tabindex="-1"></a>    <span class="fu">aes</span>(<span class="at">label =</span> <span class="st">"Start"</span>),</span>
+<span id="cb19-28"><a href="#cb19-28" aria-hidden="true" tabindex="-1"></a>    <span class="at">color=</span><span class="st">'red'</span>,</span>
+<span id="cb19-29"><a href="#cb19-29" aria-hidden="true" tabindex="-1"></a>    <span class="at">size =</span> <span class="dv">3</span>,</span>
+<span id="cb19-30"><a href="#cb19-30" aria-hidden="true" tabindex="-1"></a>    <span class="at">check_overlap =</span> <span class="cn">TRUE</span>,</span>
+<span id="cb19-31"><a href="#cb19-31" aria-hidden="true" tabindex="-1"></a>    <span class="at">nudge_x =</span> <span class="sc">+</span><span class="dv">4500</span>,</span>
+<span id="cb19-32"><a href="#cb19-32" aria-hidden="true" tabindex="-1"></a>    <span class="at">nudge_y =</span> <span class="dv">3000</span>,</span>
+<span id="cb19-33"><a href="#cb19-33" aria-hidden="true" tabindex="-1"></a>    <span class="at">hjust =</span> <span class="dv">0</span>,</span>
+<span id="cb19-34"><a href="#cb19-34" aria-hidden="true" tabindex="-1"></a></span>
+<span id="cb19-35"><a href="#cb19-35" aria-hidden="true" tabindex="-1"></a>  ) <span class="sc">+</span></span>
+<span id="cb19-36"><a href="#cb19-36" aria-hidden="true" tabindex="-1"></a>  </span>
+<span id="cb19-37"><a href="#cb19-37" aria-hidden="true" tabindex="-1"></a>  </span>
+<span id="cb19-38"><a href="#cb19-38" aria-hidden="true" tabindex="-1"></a>  <span class="fu">theme_void</span>() <span class="sc">+</span></span>
+<span id="cb19-39"><a href="#cb19-39" aria-hidden="true" tabindex="-1"></a>  <span class="fu">theme</span>(<span class="at">legend.position =</span> <span class="st">"none"</span>)</span></code></pre></div><button title="Copy to Clipboard" class="code-copy-button"><i class="bi"></i></button></div>
 <div class="cell-output-display">
 <div>
 <figure class="figure">
